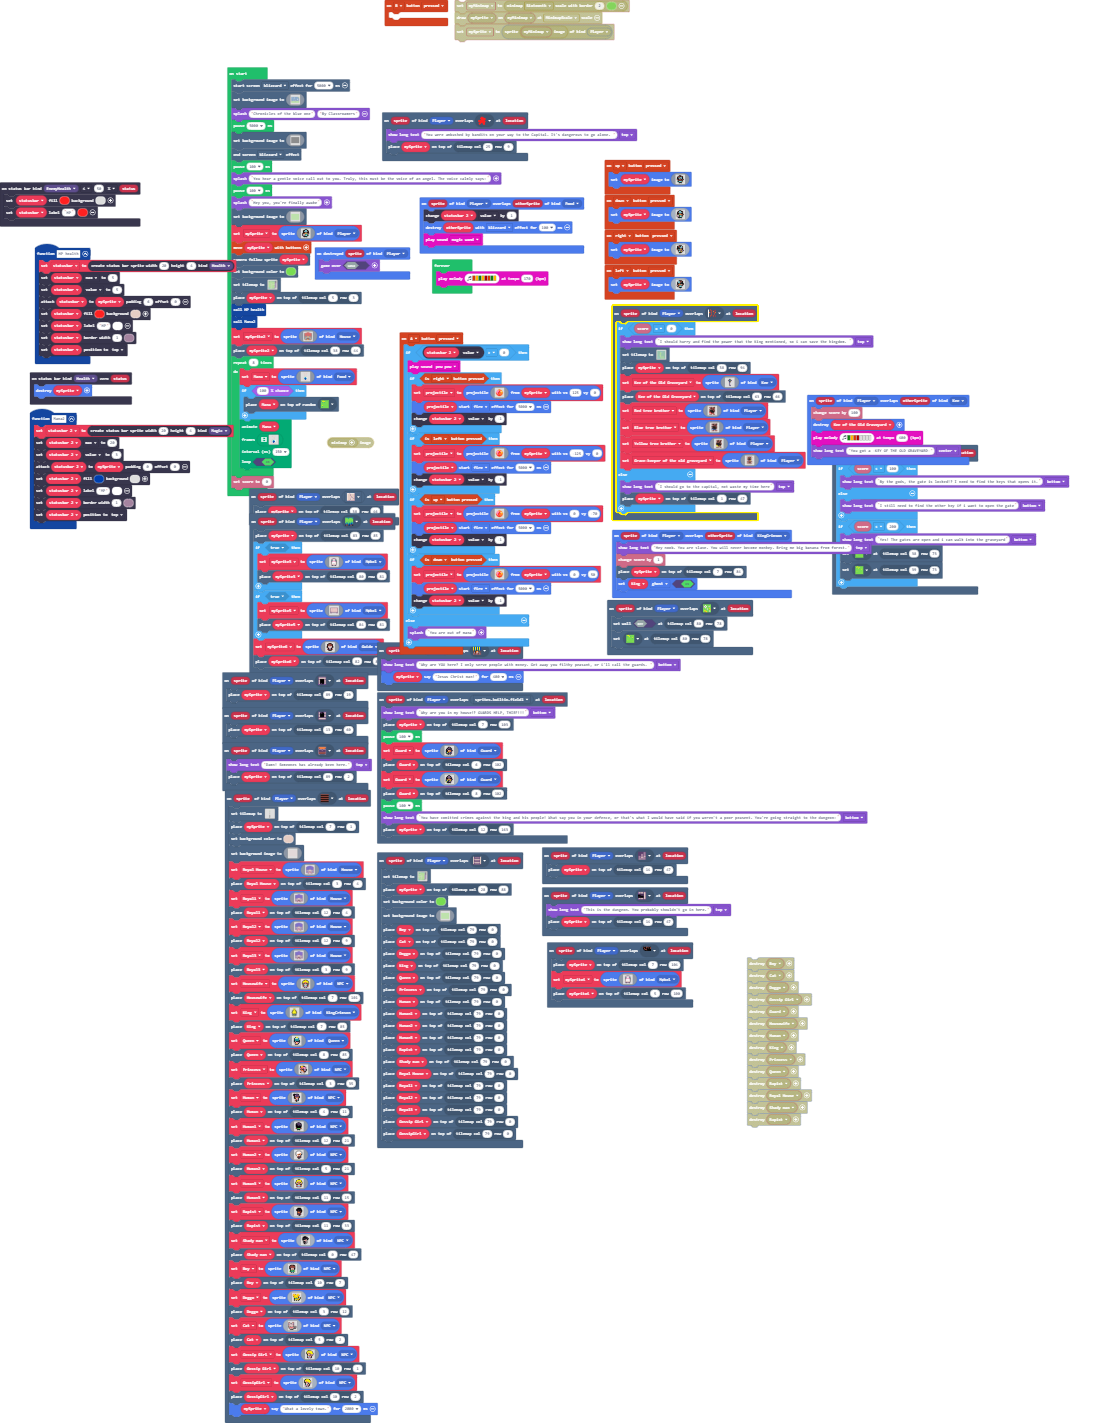
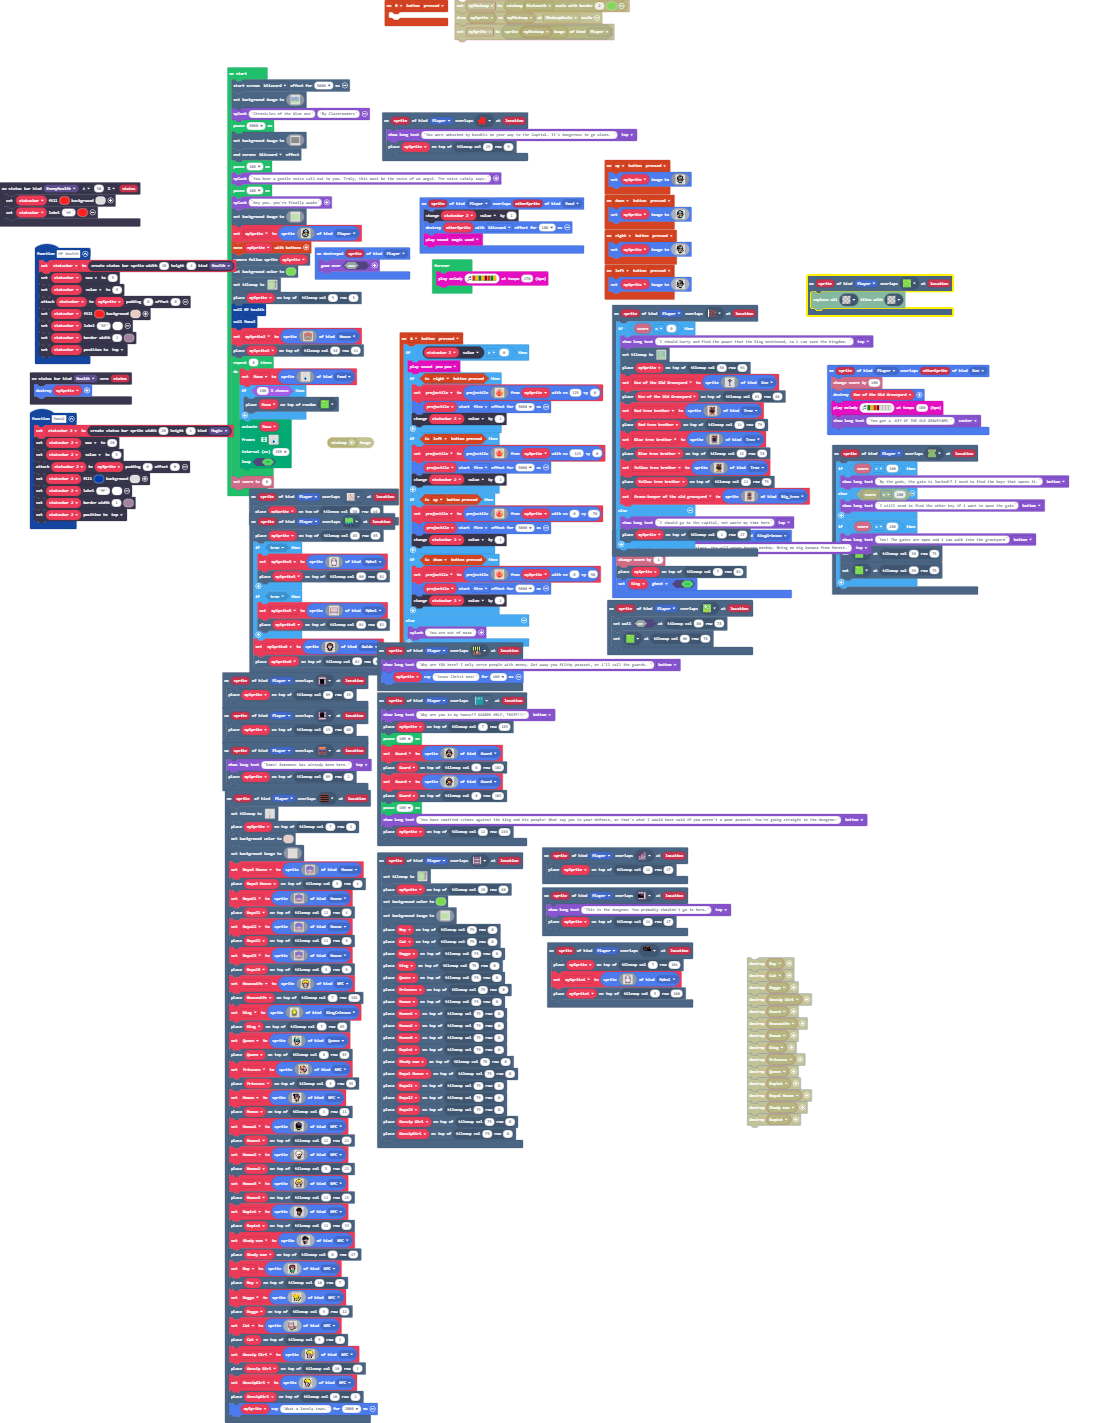
should work now

Changed region(s): [[0.5589, 0.1855, 0.9005, 0.402], [0.3416, 0.4329, 0.8073, 0.6184], [0.5589, 0.2164, 0.59, 0.2474]]

diff --git a/tilemap.g.ts b/tilemap.g.ts
@@ -46,6 +46,10 @@ namespace myTiles {
     export const tile22 = image.ofBuffer(hex``);
     //% fixedInstance jres blockIdentity=images._tile
     export const tile20 = image.ofBuffer(hex``);
+    //% fixedInstance jres blockIdentity=images._tile
+    export const tile23 = image.ofBuffer(hex``);
+    //% fixedInstance jres blockIdentity=images._tile
+    export const tile24 = image.ofBuffer(hex``);
 
     helpers._registerFactory("tilemap", function(name: string) {
         switch(helpers.stringTrim(name)) {
@@ -502,7 +506,7 @@ namespace myTiles {
 2222222222222222222222222222..222222222222222222222222222222222222222222222222222222222222
 `, [myTiles.transparency16,sprites.castle.tileGrass1,sprites.castle.tileGrass3,sprites.castle.tileGrass2,sprites.castle.rock1,sprites.castle.rock0,sprites.builtin.forestTiles0,myTiles.tile2,sprites.castle.tilePath1,sprites.castle.tilePath4,sprites.castle.tilePath2,sprites.castle.tilePath7,sprites.castle.tilePath3,sprites.castle.tilePath5,myTiles.tile3,myTiles.tile4,myTiles.tile5,sprites.castle.tileDarkGrass3,myTiles.tile6,sprites.dungeon.hazardWater,sprites.castle.tileDarkGrass2,sprites.dungeon.greenOuterNorthWest,sprites.dungeon.greenOuterNorth0,sprites.dungeon.greenOuterNorthEast,sprites.dungeon.greenOuterEast1,sprites.dungeon.greenOuterNorth1,sprites.castle.saplingPine,myTiles.tile8,sprites.castle.tilePath8,sprites.castle.tilePath9,sprites.castle.tilePath6,sprites.dungeon.greenOuterWest0,sprites.builtin.forestTiles22,sprites.dungeon.floorLight2,sprites.dungeon.greenOuterEast0,sprites.dungeon.greenOuterWest1,sprites.dungeon.greenOuterSouthWest,sprites.dungeon.greenOuterSouth1,sprites.dungeon.greenOuterSouthEast,sprites.dungeon.greenOuterNorth2,sprites.dungeon.greenOuterWest2,sprites.dungeon.greenOuterEast2,sprites.dungeon.greenOuterSouth2,myTiles.tile9,sprites.dungeon.floorLight5,sprites.dungeon.chestOpen,sprites.dungeon.floorLight1,sprites.dungeon.floorLight0,sprites.dungeon.floorLightMoss,sprites.dungeon.floorLight4,sprites.dungeon.doorOpenNorth,myTiles.tile7,sprites.dungeon.floorDark1,sprites.dungeon.doorOpenSouth,myTiles.tile1,myTiles.tile17,myTiles.tile18,myTiles.tile19], TileScale.Sixteen);
             case "level2":
[2 lines of base64/hex data omitted]
 222222222222222222222222222.........................................................................
 222.......................2..........................................22....22.......................
 222.......................2........................................22..2222......222222222222222....
@@ -603,7 +607,7 @@ namespace myTiles {
 ...........22222222222222222222.................22..22..222222222222222..2....22....................
 ..............22222222222222222.................2222222222..22.......22222222222....................
 .......................222..........................................................................
-`, [myTiles.transparency16,sprites.castle.tileGrass1,sprites.builtin.forestTiles0,myTiles.tile15,sprites.castle.tileDarkGrass1,sprites.castle.rock1,sprites.castle.rock0,sprites.castle.shrub,sprites.castle.rock2,sprites.castle.tileGrass2,sprites.castle.tileDarkGrass3,sprites.castle.tileDarkGrass2,sprites.castle.tileGrass3,myTiles.tile21,myTiles.tile22,sprites.castle.tilePath8,sprites.castle.tilePath9,sprites.castle.tilePath4,sprites.castle.tilePath7,sprites.castle.tilePath6,sprites.castle.tilePath2,sprites.castle.tilePath5,sprites.castle.tilePath1,sprites.castle.tilePath3,sprites.dungeon.greenOuterNorth0,sprites.dungeon.greenOuterNorth1,sprites.dungeon.floorLight0,myTiles.tile20], TileScale.Sixteen);
+`, [myTiles.transparency16,sprites.castle.tileGrass1,sprites.builtin.forestTiles0,myTiles.tile15,sprites.castle.tileDarkGrass1,sprites.castle.rock1,sprites.castle.rock0,sprites.castle.shrub,sprites.castle.rock2,sprites.castle.tileGrass2,sprites.castle.tileDarkGrass3,sprites.castle.tileDarkGrass2,sprites.castle.tileGrass3,myTiles.tile21,myTiles.tile22,sprites.castle.tilePath8,sprites.castle.tilePath9,sprites.castle.tilePath4,sprites.castle.tilePath7,sprites.castle.tilePath6,sprites.castle.tilePath2,sprites.castle.tilePath5,sprites.castle.tilePath1,sprites.castle.tilePath3,sprites.dungeon.greenOuterNorth0,sprites.dungeon.greenOuterNorth1,sprites.dungeon.floorLight0,myTiles.tile23,myTiles.tile24], TileScale.Sixteen);
         }
         return null;
     })
@@ -633,6 +637,8 @@ namespace myTiles {
             case "tile21":return tile21;
             case "tile22":return tile22;
             case "tile20":return tile20;
+            case "tile23":return tile23;
+            case "tile24":return tile24;
         }
         return null;
     })

diff --git a/main.ts b/main.ts
@@ -8,6 +8,8 @@ namespace SpriteKind {
     export const Queen = SpriteKind.create()
     export const KingCrimson = SpriteKind.create()
     export const Kee = SpriteKind.create()
+    export const Tree = SpriteKind.create()
+    export const Big_tree = SpriteKind.create()
 }
 scene.onOverlapTile(SpriteKind.Player, sprites.dungeon.doorClosedEast, function (sprite, location) {
     game.showLongText("This is the dungeon. You probably shouldn't go in here.", DialogLayout.Top)
@@ -360,7 +362,8 @@ scene.onOverlapTile(SpriteKind.Player, assets.tile`tile19`, function (sprite, lo
             .e..eeee..eeee.e
             ..eeeee....eeeee
             eeeeeeee..eeeee.
-            `, SpriteKind.Player)
+            `, SpriteKind.Tree)
+        tiles.placeOnTile(Red_tree_brother, tiles.getTileLocation(14, 79))
         Blue_tree_brother = sprites.create(img`
             ..e...ee..e..ee.
             e..ee.efe.ee.efe
@@ -384,7 +387,8 @@ scene.onOverlapTile(SpriteKind.Player, assets.tile`tile19`, function (sprite, lo
             .e..eeee..eeee.e
             ..eeeee....eeeee
             eeeeeeee..eeeee.
-            `, SpriteKind.Player)
+            `, SpriteKind.Tree)
+        tiles.placeOnTile(Blue_tree_brother, tiles.getTileLocation(13, 78))
         Yellow_tree_brother = sprites.create(img`
             ..e...ee..e..ee.
             e..ee.efe.ee.efe
@@ -408,7 +412,8 @@ scene.onOverlapTile(SpriteKind.Player, assets.tile`tile19`, function (sprite, lo
             .e..eeee..eeee.e
             ..eeeee....eeeee
             eeeeeeee..eeeee.
-            `, SpriteKind.Player)
+            `, SpriteKind.Tree)
+        tiles.placeOnTile(Yellow_tree_brother, tiles.getTileLocation(12, 79))
         Gravekeeper_of_the_old_graveyard = sprites.create(img`
             .e...ee....ee.e.e.....e..
             .ee...ee..ee..e..ee.ee...
@@ -445,7 +450,7 @@ scene.onOverlapTile(SpriteKind.Player, assets.tile`tile19`, function (sprite, lo
             ...ee..e..ee.ee..eeeee...
             ....eeee.ee..ee..........
             .........e....eeeee......
-            `, SpriteKind.Player)
+            `, SpriteKind.Big_tree)
     } else {
         game.showLongText("I should go to the capital, not waste my time here", DialogLayout.Top)
         tiles.placeOnTile(mySprite, tiles.getTileLocation(1, 47))
@@ -1308,6 +1313,9 @@ scene.onOverlapTile(SpriteKind.Player, sprites.builtin.forestTiles17, function (
         ..ff........ff..
         `, SpriteKind.Møbel)
     tiles.placeOnTile(mySprite4, tiles.getTileLocation(5, 100))
+})
+scene.onOverlapTile(SpriteKind.Player, assets.tile`tile23`, function (sprite, location) {
+    tiles.replaceAllTiles(assets.tile`transparency16`, assets.tile`transparency16`)
 })
 sprites.onOverlap(SpriteKind.Player, SpriteKind.Food, function (sprite, otherSprite) {
     statusbar_2.value += 1
